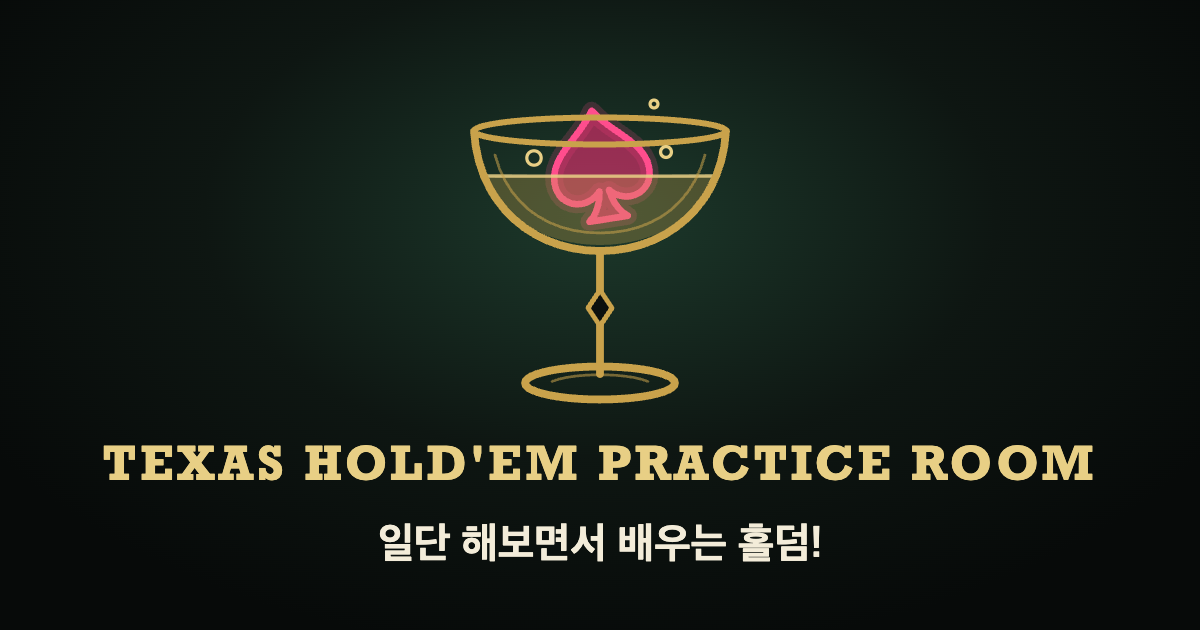
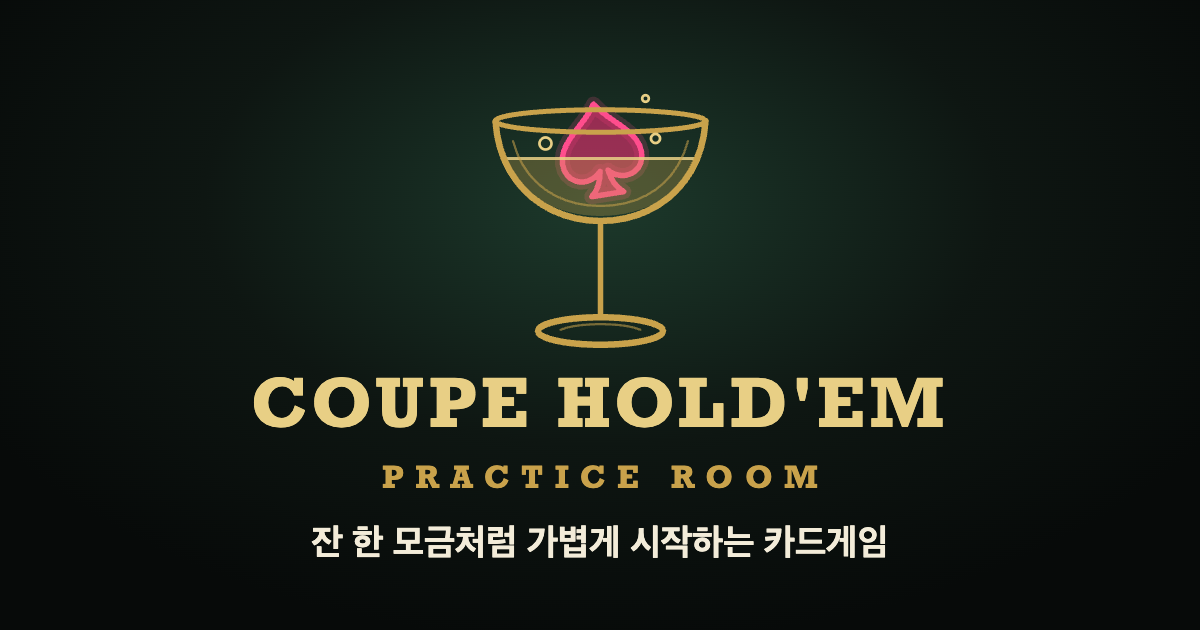
앱 이름을 Coupe Holdem(쿠페 홀덤)으로 변경, 로고 다듬기
- 탭 제목, 네온 간판(슬로건 추가), 게임 헤더, 미리보기 메타태그, README, 콘솔 안내
- 이야기 패널에 로고의 뜻 문단 추가
- 로고 줄기를 직선 하나로 단순화하고 여백 확대, 파비콘 여백 확대
- 아이콘과 링크 미리보기 그림 다시 생성

Changed region(s): [[0.0617, 0.4524, 0.925, 0.7841], [0.37, 0.1508, 0.6167, 0.4222], [0.2467, 0.8143, 0.74, 0.9048]]

diff --git a/web/index.html b/web/index.html
@@ -3,18 +3,19 @@
 <head>
 <meta charset="utf-8">
 <meta name="viewport" content="width=device-width, initial-scale=1">
-<title>텍사스 홀덤 연습방</title>
-<meta name="description" content="도박장 분위기 없이, 부담 없이 배우는 텍사스 홀덤. 혼자 봇과, 또는 친구와 온라인으로 즐겨요. 칩은 연습용이에요.">
-<meta property="og:title" content="텍사스 홀덤 연습방">
-<meta property="og:description" content="도박장 분위기 없이, 부담 없이 배우는 텍사스 홀덤. 혼자 봇과, 또는 친구와 온라인으로 즐겨요. 칩은 연습용이에요.">
+<title>Coupe Holdem · 홀덤 연습방</title>
+<meta name="description" content="잔 한 모금처럼 가볍게 시작하는 카드게임. 도박장 분위기 없이, 부담 없이 배우는 텍사스 홀덤. 혼자 봇과, 또는 친구와 온라인으로 즐겨요. 칩은 연습용이에요.">
+<meta property="og:title" content="Coupe Holdem">
+<meta property="og:description" content="잔 한 모금처럼 가볍게 시작하는 카드게임. 도박장 분위기 없이, 부담 없이 배우는 텍사스 홀덤. 혼자 봇과, 또는 친구와 온라인으로 즐겨요. 칩은 연습용이에요.">
 <meta property="og:type" content="website">
 <meta property="og:url" content="https://holdem.apps.khu-return.com">
 <meta property="og:image" content="https://holdem.apps.khu-return.com/og-image.png">
 <meta property="og:image:width" content="1200">
 <meta property="og:image:height" content="630">
-<meta property="og:site_name" content="텍사스 홀덤 연습방">
+<meta property="og:site_name" content="Coupe Holdem">
 <meta property="og:locale" content="ko_KR">
 <meta name="twitter:card" content="summary_large_image">
+<meta name="twitter:title" content="Coupe Holdem">
 <meta name="theme-color" content="#0c100e">
 <link rel="icon" href="/favicon.ico" sizes="48x48">
 <link rel="icon" href="/favicon.svg" type="image/svg+xml">
@@ -170,7 +171,7 @@
       radial-gradient(ellipse at 50% 48%, #1b6448, #14503a 45%, #0f3b2a 75%, #0a2b1f);
     box-shadow: inset 0 0 34px rgba(0, 0, 0, .72); }
   /* 펠트 위의 중앙 로고와 공용 카드 5칸 */
-  .felt-logo { position: absolute; z-index: 0; left: 50%; top: 188px; width: 54px; height: 65px; margin-left: -27px; opacity: .85; pointer-events: none; }
+  .felt-logo { position: absolute; z-index: 0; left: 50%; top: 184px; width: 66px; height: 80px; margin-left: -33px; opacity: .85; pointer-events: none; }
   .vignette { position: absolute; inset: 0; pointer-events: none; background: radial-gradient(ellipse 85% 75% at 50% 48%, transparent 55%, rgba(0, 0, 0, .78)); }
 
   /* ---- 좌석 위치 (data-slot은 장식 스크립트가 붙인다. 0 = 나) ----
@@ -347,7 +348,7 @@
     .table { --seat-w: 132px; height: 590px; }
     .table::before { inset: 22px 0 10px; }
     .table::after { inset: 38px 26px 28px; }
-    .felt-logo { top: 176px; width: 60px; height: 72px; margin-left: -30px; }
+    .felt-logo { top: 171px; width: 75px; height: 90px; margin-left: -37px; }
     .seat[data-slot="1"] { left: 1%; top: 210px; }
     .seat[data-slot="2"] { left: 11%; top: 56px; }
     .seat[data-slot="3"] { top: 6px; }
@@ -515,6 +516,13 @@
   #closedNotice { display: flex; align-items: center; justify-content: space-between; gap: 10px; border: 1px solid var(--gold); border-radius: 10px; padding: 8px 10px; background: #14140e; }
 
   /* 로고 */
+  .brand { display: flex; align-items: center; gap: 2px; line-height: 1.05; }
+  .brand img { flex: none; }
+  .marquee-slogan { margin-top: 8px; font-size: 13px; font-weight: 700; color: #fff0c9; word-break: keep-all; text-shadow: 0 1px 3px #4a0910; }
+  @media (max-width: 600px) {  /* 좁은 화면: 이름을 두 줄로 */
+    .brand { font-size: 15px; }
+    .brand > span { display: flex; flex-direction: column; }
+  }
   #headLogo { display: none; flex: none; }
   .wrap:has(#screen-home:not([hidden])) #headLogo { display: block; }
   #storyTitle { display: flex; align-items: center; gap: 8px; }
@@ -659,8 +667,8 @@
 <body>
 <div class="wrap">
   <header>
-    <img id="headLogo" src="/favicon.svg" alt="텍사스 홀덤 연습방 로고" width="32" height="32">
-    <h1>♠ 홀덤 연습</h1>
+    <img id="headLogo" src="/favicon.svg" alt="Coupe Holdem 로고" width="32" height="32">
+    <h1 class="brand"><img src="/logo.svg" alt="" width="36" height="44"><span><span>Coupe</span> <span>Holdem</span></span></h1>
     <button type="button" id="homeBack">← 처음으로</button>
     <span id="info"></span>
     <div class="head-buttons">
@@ -761,8 +769,9 @@
         <svg class="star tr" viewBox="0 0 24 24" aria-hidden="true"><path d="M12 1l2.9 7.6 8.1.4-6.3 5.1 2.1 7.9L12 17.5 5.2 22l2.1-7.9L1 9l8.1-.4z"/></svg>
         <svg class="star bl" viewBox="0 0 24 24" aria-hidden="true"><path d="M12 1l2.9 7.6 8.1.4-6.3 5.1 2.1 7.9L12 17.5 5.2 22l2.1-7.9L1 9l8.1-.4z"/></svg>
         <svg class="star br" viewBox="0 0 24 24" aria-hidden="true"><path d="M12 1l2.9 7.6 8.1.4-6.3 5.1 2.1 7.9L12 17.5 5.2 22l2.1-7.9L1 9l8.1-.4z"/></svg>
-        <h2 class="marquee-title marquee-font" aria-label="TEXAS HOLD'EM"><span>TE<span class="flicker">X</span>AS</span> <span>HOLD'EM</span></h2>
+        <h2 class="marquee-title marquee-font" aria-label="COUPE HOLD'EM"><span>CO<span class="flicker">U</span>PE</span> <span>HOLD'EM</span></h2>
         <div class="marquee-sub marquee-font">PRACTICE ROOM</div>
+        <p class="marquee-slogan">잔 한 모금처럼 가볍게 시작하는 카드게임</p>
     </div>
     <!-- 기둥에 매달린 네온 패널 -->
     <div class="pole">
@@ -953,6 +962,7 @@
       <p>홀덤은 재미있는 카드게임인데, 이름만 들으면 도박장 같은 분위기부터 떠올라서 처음 시작하기가 어렵게 느껴져요.</p>
       <p>그래서 부담 없이 혼자서도, 친구들과도 온라인으로 즐길 수 있는 연습방을 만들어 봤어요.</p>
       <p>칩은 모두 연습용이고 실제 돈은 오가지 않아요. 틀려도 괜찮아요.</p>
+      <p>로고는 쿠페 잔에 스페이드가 빠진 모양이에요. 무거운 판돈 대신 한 잔의 여유처럼, 부담 없이 카드게임을 즐겨 보자는 뜻을 담았어요.</p>
       <p class="story-point">일단 해보면서 배우는 홀덤!</p>
       <p class="story-by">Made by <a href="https://instagram.com/texas.holdem7" target="_blank" rel="noopener noreferrer">@texas.holdem7</a></p>
       <button type="button" class="primary big modal-close">바로 시작하기</button>

diff --git a/src/main.cpp b/src/main.cpp
@@ -1,4 +1,4 @@
-// main.cpp - 6인 노리밋 텍사스 홀덤 연습 시뮬레이터 (사람 1명 + 봇 5명)
+// main.cpp - Coupe Holdem(쿠페 홀덤): 6인 노리밋 홀덤 연습 (사람 1명 + 봇 5명)
 // 기본은 콘솔 모드, --web을 주면 웹 모드로 실행한다.
 #include <cstdlib>
 #include <iostream>
@@ -173,7 +173,7 @@ int main(int argc, char** argv) {
     Game game(config, std::move(players), seed);
     game.setLogger([](const std::string& line) { std::cout << "  " << line << "\n"; });
 
-    std::cout << "6인 노리밋 텍사스 홀덤 연습  (시드 " << seed << (seedGiven ? ", 지정됨" : ", 무작위")
+    std::cout << "Coupe Holdem(쿠페 홀덤) - 6인 노리밋 홀덤 연습  (시드 " << seed << (seedGiven ? ", 지정됨" : ", 무작위")
               << ", 칩 " << config.startingChips << ", 블라인드 " << config.smallBlind << "/"
               << config.bigBlind << ")\n";
     std::cout << "상대: 타이트, 루즈, 공격형, 콜링스테이션, 확률계산\n";

diff --git a/README.md b/README.md
@@ -1,8 +1,10 @@
-<p align="center"><img src="web/logo.svg" alt="텍사스 홀덤 연습방 로고" width="140"></p>
+<p align="center"><img src="web/logo.svg" alt="Coupe Holdem 로고" width="180"></p>
 
-<h1 align="center">텍사스 홀덤 연습방</h1>
+<h1 align="center">Coupe Holdem · 쿠페 홀덤</h1>
 
-<p align="center">도박장 분위기 없이, 부담 없이 배우는 텍사스 홀덤. <b>일단 해보면서 배우는 홀덤!</b></p>
+<p align="center">홀덤 연습방</p>
+
+<p align="center"><b>잔 한 모금처럼 가볍게 시작하는 카드게임</b><br>도박장 분위기 없이, 부담 없이 배우는 텍사스 홀덤. 일단 해보면서 배우는 홀덤!</p>
 
 <p align="center">라이브 데모: <a href="https://holdem.apps.khu-return.com">https://holdem.apps.khu-return.com</a></p>
 
@@ -41,7 +43,8 @@ cmake -S . -B build && cmake --build build -j2
 ## 만든 이유
 
 홀덤은 재미있는 카드게임인데, 이름만 들으면 도박장 같은 분위기부터 떠올라 처음 시작하기가 어렵게 느껴집니다.
-그래서 부담 없이 혼자서도, 친구들과도 온라인으로 즐길 수 있는 연습방을 만들었습니다.
+그래서 부담 없이 혼자서도, 친구들과도 온라인으로 즐길 수 있는 연습방 쿠페 홀덤을 만들었습니다.
+로고의 쿠페 잔과 스페이드에는 무거운 판돈 대신 한 잔의 여유처럼 즐기자는 뜻을 담았습니다.
 틀려도 괜찮습니다. 일단 해보면서 배우는 홀덤입니다.
 
 ## 그림 파일
